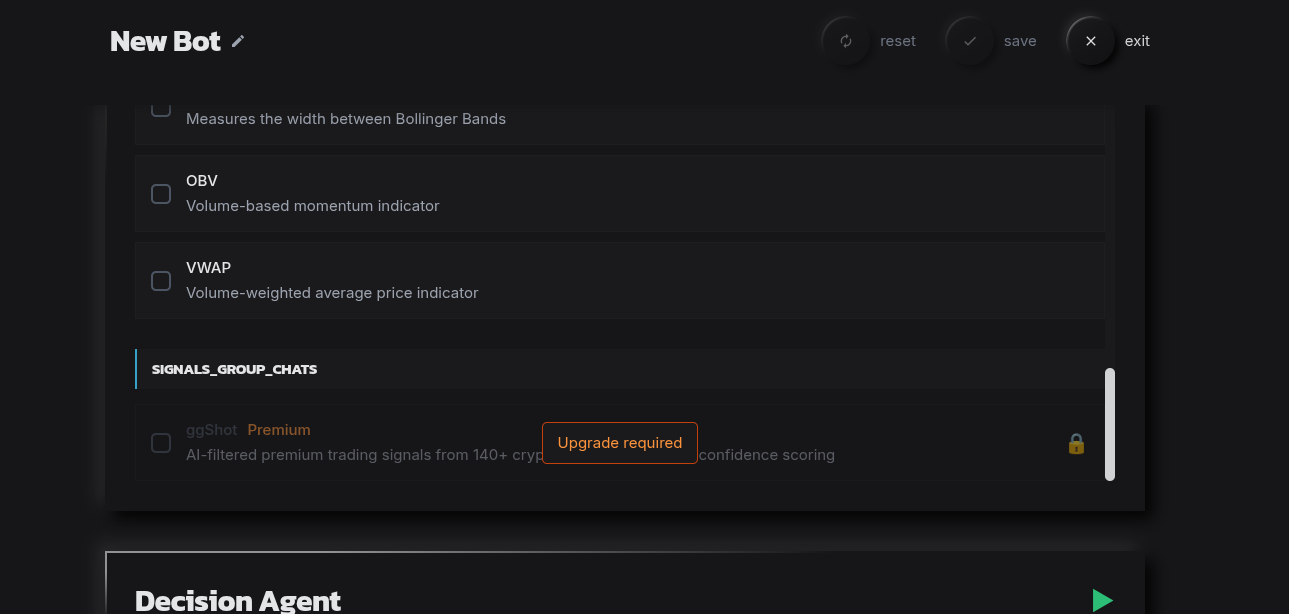
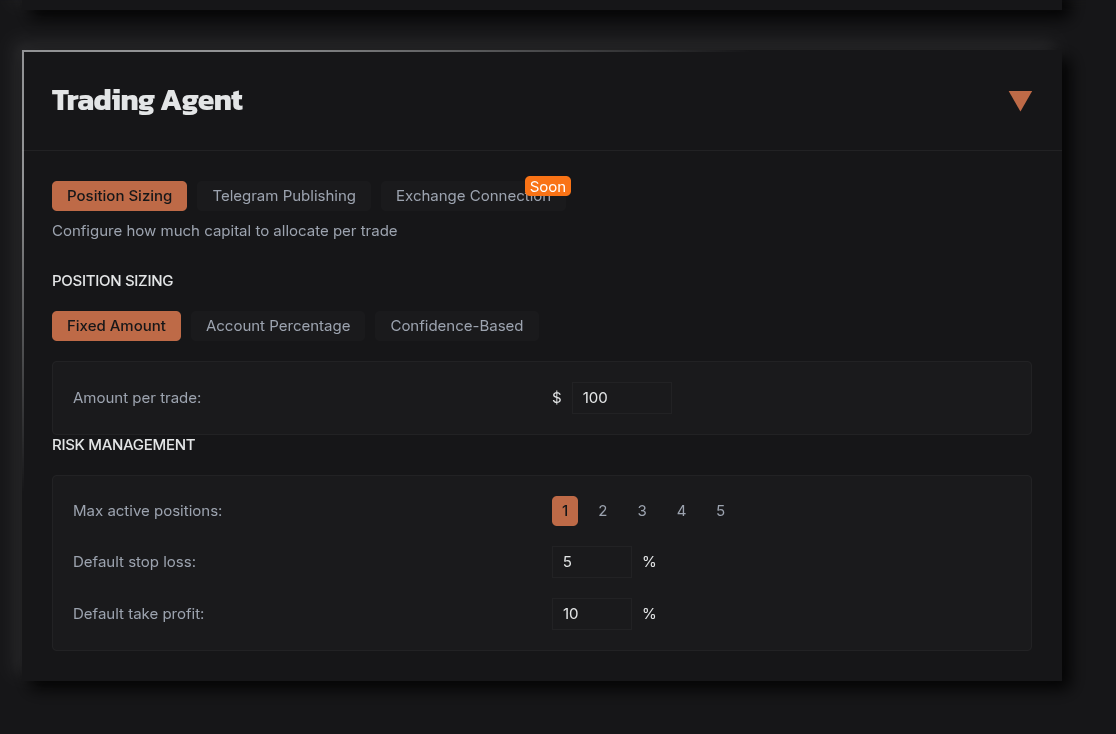
switched botconfigv2 to return raw config_data JSONB

diff --git a/frontend/store/botStore.ts b/frontend/store/botStore.ts
@@ -4,7 +4,7 @@ import { apiClient } from '@/lib/api'
 
 // Helper functions for V2 API data transformation
 function extractStrategyFromConfig(configData: any): string {
-  // Try to determine strategy from decision prompt (flat structure)
+  // Try to determine strategy from decision prompt (nested config_data structure)
   const userPrompt = configData?.decision?.user_prompt?.toLowerCase() || ''
   if (userPrompt.includes('rsi')) return 'meanrev'
   if (userPrompt.includes('macd') || userPrompt.includes('trend')) return 'trend'
@@ -18,7 +18,7 @@ function extractCryptoFromPair(selectedPair: string): string {
 }
 
 function extractRiskLevel(configData: any): string {
-  // Determine risk level from trading configuration (flat structure)
+  // Determine risk level from trading configuration (nested config_data structure)
   const leverage = configData.trading?.leverage || 1
   const accountPercent = configData.trading?.position_sizing?.account_percent || 5
   
@@ -364,9 +364,9 @@ export const useBotStore = create<BotStore>()(
             instance_name: configData.config_name || `Bot-${configData.config_id.slice(0, 8)}`,
             config_type: 'production', // V2 configs are production by default
             name: configData.config_name || `Bot-${configData.config_id.slice(0, 8)}`,
-            strategy: extractStrategyFromConfig(configData),
-            crypto: extractCryptoFromPair(configData.selected_pair),
-            riskLevel: extractRiskLevel(configData),
+            strategy: extractStrategyFromConfig(configData.config_data),
+            crypto: extractCryptoFromPair(configData.config_data.selected_pair),
+            riskLevel: extractRiskLevel(configData.config_data),
             status: {
               phase: 'inactive', // Will be updated via bot status endpoint
               color: 'gray',

diff --git a/frontend/components/GGBotConfig.tsx b/frontend/components/GGBotConfig.tsx
@@ -77,6 +77,7 @@ const allDataSources = [
   'onchain_analytics'
 ]
 
+
 interface DataSourceSectionProps {
   dataSources: DataSource[]
   selectedDataPoints: string[]  // Now contains data point names, not IDs

diff --git a/core/services/config_service.py b/core/services/config_service.py
@@ -42,16 +42,18 @@ class BotConfigV2:
         self.updated_at = updated_at or datetime.now()
     
     def to_dict(self) -> Dict[str, Any]:
-        """Convert to dictionary for storage."""
+        """Convert to dictionary for API response - returns raw config_data JSONB structure."""
         return {
             "config_id": self.config_id,
             "user_id": self.user_id,
             "config_name": self.config_name,
-            "selected_pair": self.selected_pair,
-            "extraction": self.extraction,
-            "decision": self.decision,
-            "trading": self.trading,
-            "telegram_integration": self.telegram_integration,
+            "config_data": {
+                "selected_pair": self.selected_pair,
+                "extraction": self.extraction,
+                "decision": self.decision,
+                "trading": self.trading,
+                "telegram_integration": self.telegram_integration,
+            },
             "created_at": self.created_at.isoformat() if self.created_at else None,
             "updated_at": self.updated_at.isoformat() if self.updated_at else None
         }

diff --git a/DOCS/CONTEXT.md b/DOCS/CONTEXT.md
@@ -12,3 +12,70 @@ Additionally, ggShot signal itself is unique. It's not a feature for paid users 
 issue 2 (see image): 
 
 I think we removed the risk management content becasue paper trading doesn't have any actual options here. we'll add this back in later.. so for now maybe we should just remove that section and default to the position sizing section. 
+
+
+
+For perfect two-way syncing, the API should return the raw config_data JSONB structure -
+   no flattening.
+
+  Why This Makes Most Sense:
+
+  Database → Frontend (Reading)
+
+  // Database stores:
+  config_data: {
+    selected_pair: "BTC/USDT",
+    extraction: {...},
+    decision: {...}
+  }
+
+  // API returns exactly that:
+  {
+    config_id: "abc-123",
+    config_name: "My ggbot",
+    config_data: {              // ← Same structure as database
+      selected_pair: "BTC/USDT",
+      extraction: {...},
+      decision: {...}
+    }
+  }
+
+  // Frontend gets exactly what's in database - perfect sync!
+
+  Frontend → Database (Writing)
+
+  // User edits form, frontend has:
+  configData = {
+    selected_pair: "ETH/USDT",  // User changed this
+    extraction: {...},
+    decision: {...}
+  }
+
+  // Frontend sends to API:
+  PUT /api/v2/config/abc-123
+  {
+    config_data: configData     // ← Exact same structure
+  }
+
+  // API stores directly into database:
+  UPDATE configurations
+  SET config_data = {received_config_data}
+  WHERE config_id = 'abc-123'
+
+  Perfect Sync Benefits:
+
+  1. No data transformation = no chance for sync bugs
+  2. What you see is what's stored = perfect fidelity
+  3. Frontend form state = database state = always in sync
+  4. No flattening/nesting conversions = simpler code
+
+  The Fix:
+
+  Update the backend BotConfigV2.to_dict() to return the raw config_data JSONB instead of
+  flattening it. The frontend component already expects this structure, so it would work
+  perfectly.
+
+  This approach ensures 100% sync between form state and database state with zero
+  transformation overhead.
+
+  Does this make sense? Should I update the backend to return raw config_data?
